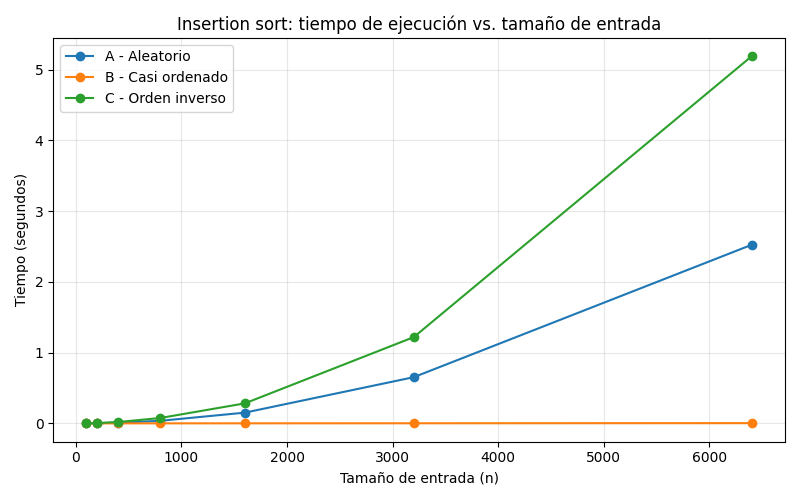
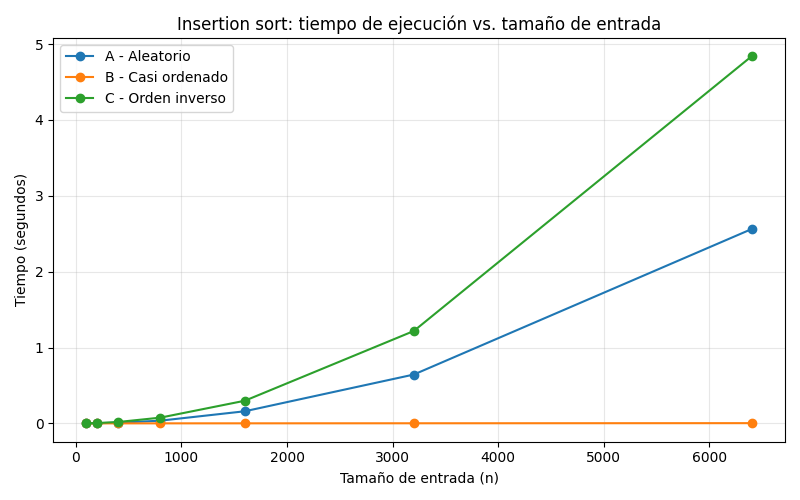
Corrige observaciones de la retroalimentacion del Laboratorio evaluativo 01
Ajusta ejemplo con cifras concretas, corrige terminologia cuadratico vs exponencial, aclara quien asume el costo del error del operador, reformula la tension entre orden y correccion, completa el desarrollo matematico del caso promedio y el conteo exacto del mejor caso, agrega type hints a las funciones medir, declara la mediana de 3 repeticiones, agrega unidades al eje de comparaciones, e incluye instrucciones de reproduccion para macOS/Linux.

diff --git a/lab1-fundamentos-complejidad-recurrencias/parte3_casos.py b/lab1-fundamentos-complejidad-recurrencias/parte3_casos.py
@@ -2,6 +2,7 @@
 
 import statistics
 import time
+from typing import Callable
 
 import matplotlib.pyplot as plt
 
@@ -18,7 +19,7 @@ ESCENARIOS = {
 }
 
 
-def medir(generador, n: int) -> tuple[float, int]:
+def medir(generador: Callable[[int], list[int]], n: int) -> tuple[float, int]:
     """Mide el tiempo mediano y las comparaciones de insertion_sort.
 
     Genera el lote una sola vez y ejecuta insertion_sort varias veces
@@ -65,7 +66,7 @@ def main() -> None:
         plt.plot(TAMANIOS, resultados[nombre]["comparaciones"], marker="o", label=nombre)
     plt.title("Insertion sort: comparaciones vs. tamaño de entrada")
     plt.xlabel("Tamaño de entrada (n)")
-    plt.ylabel("Número de comparaciones")
+    plt.ylabel("Número de comparaciones (Unidades)")
     plt.legend()
     plt.grid(True, alpha=0.3)
     plt.tight_layout()

diff --git a/lab1-fundamentos-complejidad-recurrencias/parte4_complejidad.py b/lab1-fundamentos-complejidad-recurrencias/parte4_complejidad.py
@@ -2,6 +2,7 @@
 
 import statistics
 import time
+from typing import Callable
 
 import matplotlib.pyplot as plt
 
@@ -17,7 +18,7 @@ ALGORITMOS = {
 }
 
 
-def medir(algoritmo, lote: list[int]) -> float:
+def medir(algoritmo: Callable[[list[int]], tuple[list[int], int]], lote: list[int]) -> float:
     """Mide el tiempo mediano de ejecucion de un algoritmo sobre un lote.
 
     El tiempo de generacion de datos no se cronometra: el lote ya

diff --git a/lab1-fundamentos-complejidad-recurrencias/README.md b/lab1-fundamentos-complejidad-recurrencias/README.md
@@ -8,8 +8,16 @@
 
 Desde la raiz del repositorio, con el entorno virtual activado:
 
+En Windows (Git Bash):
 ```bash
 source venv/Scripts/activate
+pip install -r requirements.txt
+cd lab1-fundamentos-complejidad-recurrencias
+```
+
+En macOS/Linux:
+```bash
+source venv/bin/activate
 pip install -r requirements.txt
 cd lab1-fundamentos-complejidad-recurrencias
 ```
@@ -26,7 +34,7 @@ Para correr el experimento de la Parte 4:
 python parte4_complejidad.py
 ```
 
-Ambos scripts generan las graficas correspondientes en la carpeta `graficas/`.
+Ambos scripts generan las graficas correspondientes en la carpeta `graficas/`. Cada tiempo reportado es la **mediana de 3 repeticiones** sobre el mismo lote de datos, para reducir el ruido de mediciones individuales (ver funcion `medir` en `parte3_casos.py` y `parte4_complejidad.py`).
 
 **Nota sobre el sentido de ordenamiento:** en este laboratorio, `insertion_sort` y `merge_sort` ordenan de menor a mayor. Esta eleccion no cambia ninguna complejidad calculada; solo determina que el escenario B (casi ordenado) queda ascendente y el escenario C (orden inverso) queda descendente.
 
@@ -40,7 +48,7 @@ Como vemos la plataforma Tamiza lleva ocho años dando el resultado correcto. Ca
 
 Duplicar la velocidad del servidor podría ayudar por un tiempo, pero no solucionaría el problema principal. Esto se debe a que insertion sort tiene un crecimiento cuadrático (O(n²)) en el peor caso. Por ejemplo, si la cantidad de datos se duplica, el tiempo de ejecución puede aumentar aproximadamente cuatro veces. El programa pasó de trabajar con 4 municipios y 20.000 registros a trabajar con todo el departamento y 1.200.000 registros. Este aumento es demasiado grande para depender solamente de mejoras en el hardware. Aunque un procesador más rápido pueda reducir el tiempo actualmente, si los datos siguen creciendo, el problema volverá a aparecer. Por eso considero que sería una solución temporal y no una solución al problema de fondo.
 
-Algo parecido podría pasar en un sistema de dashboards de seguridad en el que he trabajado (Florida parque comercial). Por ejemplo, si una función tuviera que comparar todos los eventos de seguridad con todos los turnos de vigilancia registrados durante un mes, podría funcionar bien cuando existen pocos cientos de eventos. Sin embargo, si el centro comercial empieza a generar miles de eventos diarios y el reporte necesita aparecer en pocos segundos en un dashboard en tiempo real, ese mismo proceso podría volverse demasiado lento. Los datos seguirían siendo procesados correctamente, pero ya no se cumpliría con el tiempo de respuesta que necesita el sistema. En ese caso, al igual que con Tamiza, el problema no sería que el resultado estuviera mal, sino que el algoritmo utilizado no sería adecuado para la cantidad de datos y el tiempo disponible.
+Algo parecido podría pasar en un sistema de dashboards de seguridad en el que he trabajado (Florida Parque Comercial). Por ejemplo, si una función tuviera que cruzar todos los eventos de seguridad del mes contra todos los turnos de vigilancia registrados (una comparación de cada evento contra cada turno), con unos 200 eventos y 150 turnos eso son apenas 30.000 comparaciones, que se resuelven en milisegundos. Pero si el centro comercial crece y empieza a generar unos 5.000 eventos diarios cruzados contra unos 300 turnos, ese mismo cruce ya implica 1.500.000 comparaciones, y si el dashboard necesita refrescar ese reporte cada 5 segundos para mostrarlo en tiempo real, el proceso ya no alcanzaría a completarse dentro de esa ventana. Los datos seguirían siendo procesados correctamente, pero ya no se cumpliría con el tiempo de respuesta que necesita el sistema. En ese caso, al igual que con Tamiza, el problema no sería que el resultado estuviera mal, sino que el algoritmo utilizado no sería adecuado para la cantidad de datos y el tiempo disponible.
 
 ---
 
@@ -48,11 +56,11 @@ Algo parecido podría pasar en un sistema de dashboards de seguridad en el que h
 
 ### Responsabilidad ambiental y ética de la implementación
 
-**Dimensión medioambiental:** Tamiza, funciona noche tras noche, y el proceso de ordenamiento tiene lugar cada mañana en tiempo real. Por ende, el consumo energético del algoritmo (como dijo el profesor en clase, como ingenieros concientizados que somos) es otro factor a tener en cuenta. entonces, debemos preocuparnos por la diferencia en el consumo energético entre el ordenamiento por inserción y un algoritmo más eficiente. Insertion sort presenta una complejidad de O(n²), lo que significa que, a medida que aumenta el tamaño de la matriz, el tiempo necesario para ordenarla aumenta exponencialmente. Es posible que el algoritmo concreto utilizado para ordenar las 1.2 millones de matrices no sea decisivo; sin embargo, dado que este proceso se lleva a cabo todos los días y que el coste energético de ordenar una única matriz se multiplica por cada día del año, la diferencia entre un algoritmo de O(n log n) y uno de O(n²) podría tener repercusiones medioambientales significativas.
+**Dimensión medioambiental:** Tamiza, funciona noche tras noche, y el proceso de ordenamiento tiene lugar cada mañana en tiempo real. Por ende, el consumo energético del algoritmo (como dijo el profesor en clase, como ingenieros concientizados que somos) es otro factor a tener en cuenta. entonces, debemos preocuparnos por la diferencia en el consumo energético entre el ordenamiento por inserción y un algoritmo más eficiente. Insertion sort presenta una complejidad de O(n²), lo que significa que, a medida que aumenta el tamaño de la matriz, el tiempo necesario para ordenarla aumenta de forma **cuadrática, no exponencial** (si el tamaño de los datos se duplica, el tiempo se multiplica aproximadamente por cuatro, no por una potencia creciente de dos). Es posible que el algoritmo concreto utilizado para ordenar las 1.2 millones de matrices no sea decisivo; sin embargo, dado que este proceso se lleva a cabo todos los días y que el coste energético de ordenar una única matriz se multiplica por cada día del año, la diferencia entre un algoritmo de O(n log n) y uno de O(n²) podría tener repercusiones medioambientales significativas.
 
-**Dimensión ética:** El aumento del tiempo necesario para completar el proceso de ordenamiento podría tener varias consecuencias. En primer lugar, un paciente con un índice de riesgo alto podría tener que esperar a una intervención quirúrgica más que si la lista hubiera sido ordenada a tiempo. El fraude puede ser consecuencia del hecho de que la lista no estuviera ordenada antes de la hora límite de las 6:00, si bien es claro que sería el paciente quien asumiría el coste del error, no la secretaría ni el equipo de desarrollo del sistema. La segunda consideración ética se refiere al operador del centro de atención al cliente. Si recibe una lista desordenada o incompleta, podría empezar a llamar a los pacientes que ocupan anteriormente en la lista aunque aún no hayan sido evaluados, argumentando que están priorizados.
+**Dimensión ética:** El aumento del tiempo necesario para completar el proceso de ordenamiento podría tener varias consecuencias. En primer lugar, un paciente con un índice de riesgo alto podría tener que esperar a una intervención quirúrgica más que si la lista hubiera sido ordenada a tiempo. El fraude puede ser consecuencia del hecho de que la lista no estuviera ordenada antes de la hora límite de las 6:00, si bien es claro que sería el paciente quien asumiría el coste del error, no la secretaría ni el equipo de desarrollo del sistema. La segunda consideración ética se refiere al operador del centro de atención al cliente. Si recibe una lista desordenada o incompleta, podría empezar a llamar a pacientes que no son realmente los de mayor riesgo, actuando de buena fe sobre información que no refleja la prioridad real. Aquí el costo del error lo terminan asumiendo dos partes a la vez: el operador, que queda en una posición de responsabilidad sin tener cómo saber que la lista estaba mal, y el paciente de alto riesgo que debería haber sido contactado primero y no lo fue.
 
-**Tensión entre orden y corrección:** El problema de ordenar una lista de pacientes con base en sus índices de riesgo presenta una tensión entre el orden y la corrección. El orden de la lista afecta a las prioridades de los médicos, puesto que los pacientes listados primero tienen una prioridad más alta y serán atendidos primero; por lo tanto, debe encontrarse un equilibrio entre la velocidad a la que se ordena la lista y la exactitud del resultado. El sistema tiene cuatro horas para completar el proceso de ordenamiento antes de que se cierre el servicio, y no debe invertir más tiempo del necesario en intentar mejorar el orden de la lista.
+**Tensión entre orden y corrección:** El problema de ordenar una lista de pacientes con base en sus índices de riesgo presenta una tensión entre el orden y la corrección. El orden de la lista no es un detalle secundario: decide literalmente a qué paciente se llama primero, y en salud eso puede significar la diferencia entre una intervención oportuna y una tardía. Esto no se resuelve buscando un punto medio entre velocidad y exactitud, sino reconociendo que la corrección del orden nunca puede sacrificarse por velocidad: el algoritmo debe ser siempre exacto, dentro de la ventana de cuatro horas, no "exacto cuando el tiempo alcanza". Un algoritmo rápido pero que prioriza mal a los pacientes sería, en este contexto, más peligroso que uno lento pero preciso.
 
 ---
 
@@ -140,9 +148,15 @@ for i in range(1, len(lista)):        # se ejecuta n-1 veces
 
 Sea `t_i` el número de veces que se ejecuta el `while` interno en la iteración `i`-ésima del `for` externo (equivalente a cuántas posiciones se desplaza el elemento `actual`).
 
--   **Mejor caso** (lista ya ordenada): cada elemento nuevo se compara una sola vez y no se desplaza, así que `t_i = 1` para todo `i`. El costo total es `Σ(i=1 hasta n-1) O(1) = O(n)`. **Insertion sort es O(n) en el mejor caso.**
+-   **Mejor caso** (lista ya ordenada): cada elemento nuevo se compara una sola vez contra su vecino inmediato y no se desplaza, así que `t_i = 1` para todo `i`. El costo del `while` es `Σ(i=1 hasta n-1) 1 = n-1`: es decir, se realizan **exactamente n-1 comparaciones** en total (una por cada uno de los n-1 elementos insertados), sin ninguna aproximación. Sumando el costo O(n) de las líneas fijas del `for`, el total es **O(n)**.
 -   **Peor caso** (lista en orden inverso): cada elemento nuevo debe desplazarse hasta el principio, así que `t_i = i`. El costo total es `Σ(i=1 hasta n-1) i = (n-1)n/2 = O(n²)`. **Insertion sort es O(n²) en el peor caso.**
--   **Caso promedio**: en promedio, cada elemento se desplaza aproximadamente la mitad de su posición, así que `t_i ≈ i/2`. La suma sigue siendo del orden de `n²/4`, que asintóticamente es **O(n²)**.
+-   **Caso promedio**: para una entrada aleatoria, el elemento que se inserta en la posición `i` tiene, en promedio, la misma probabilidad de terminar en cualquiera de las `i` posiciones posibles (de la 0 a la i-1), por lo que el número esperado de comparaciones en esa iteración es `t_i ≈ i/2`. Sumando sobre todas las iteraciones:
+
+    ```
+    Σ(i=1 hasta n-1) i/2 = (1/2) · Σ(i=1 hasta n-1) i = (1/2) · (n-1)n/2 = n(n-1)/4
+    ```
+
+    Esta suma, `n(n-1)/4`, es del orden de `n²/4`, que asintóticamente (ignorando la constante 1/4) es **O(n²)**. Es decir, el caso promedio tiene el mismo orden de crecimiento que el peor caso, solo que con una constante menor (1/4 en vez de 1/2), lo cual es consistente con que insertion sort no mejora su orden de complejidad fuera de entradas ya casi ordenadas.
 
 **Tabla de complejidades**
 
